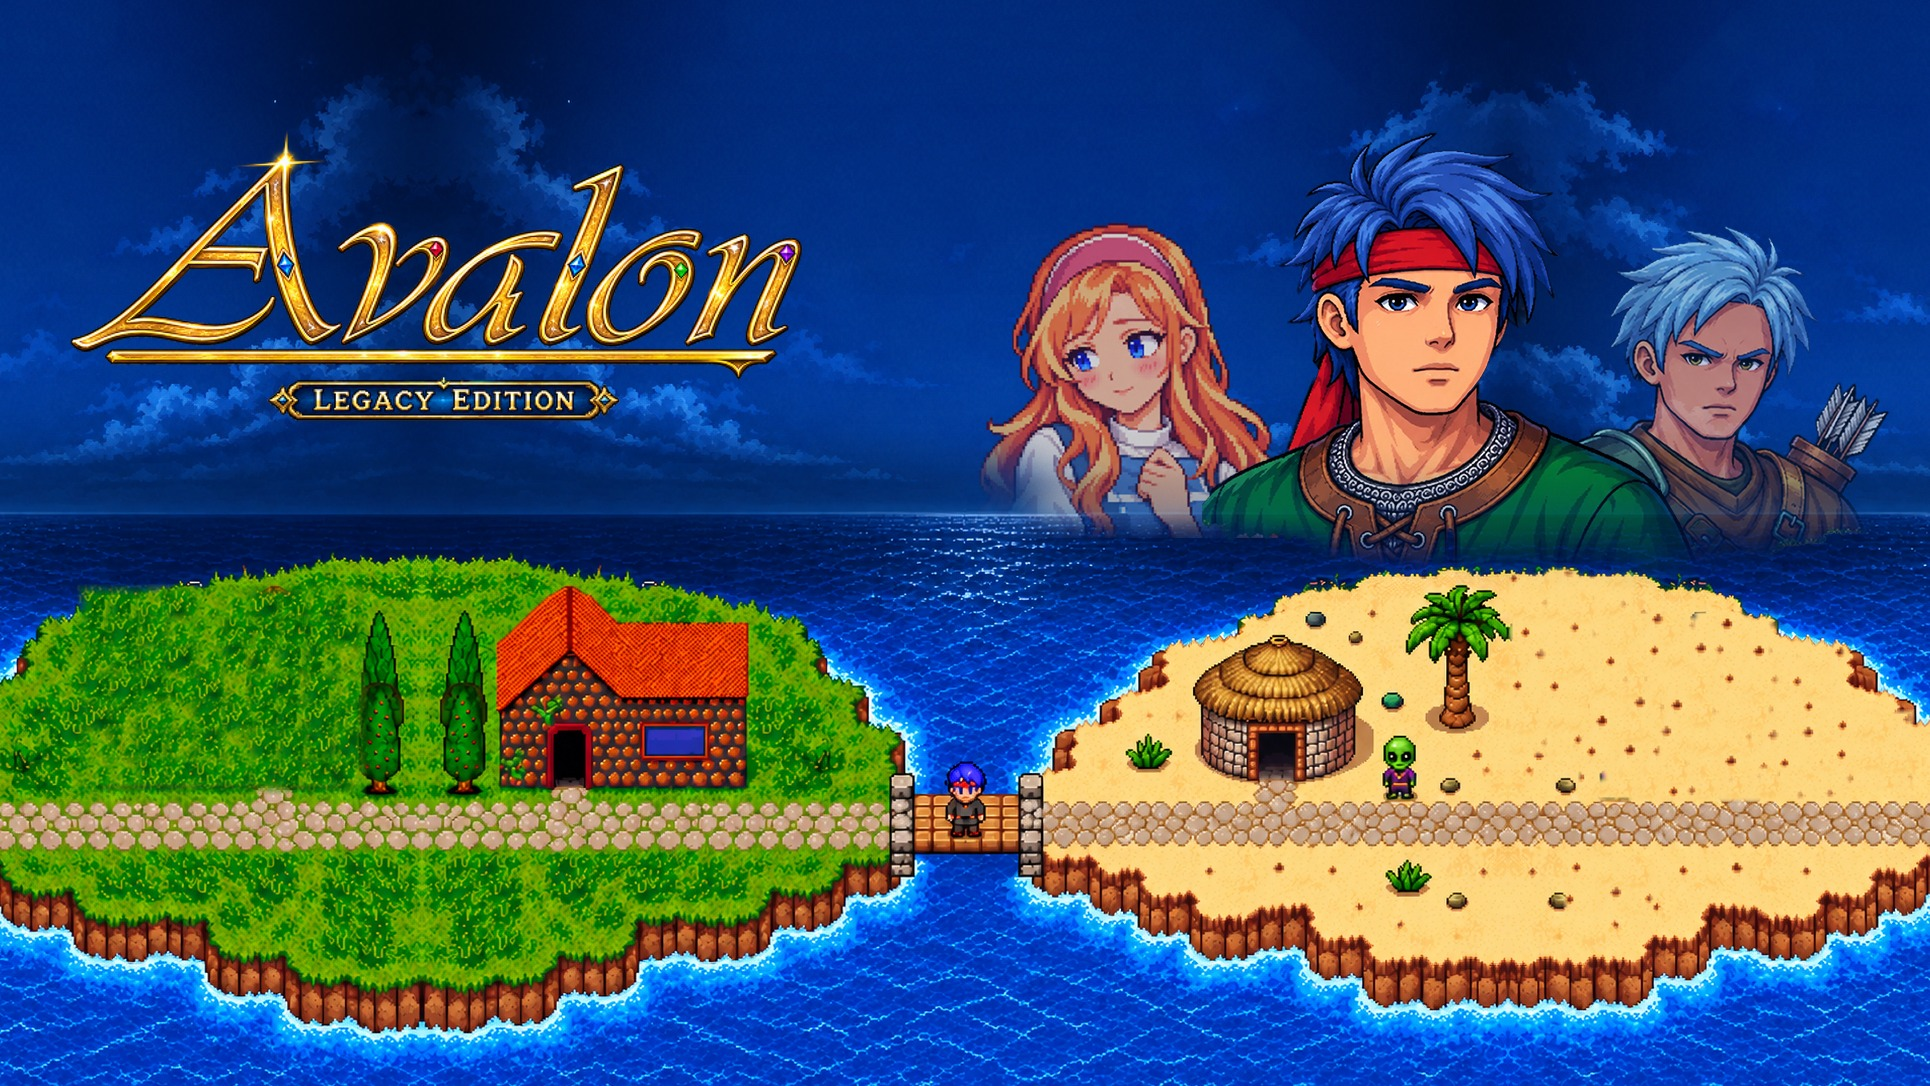
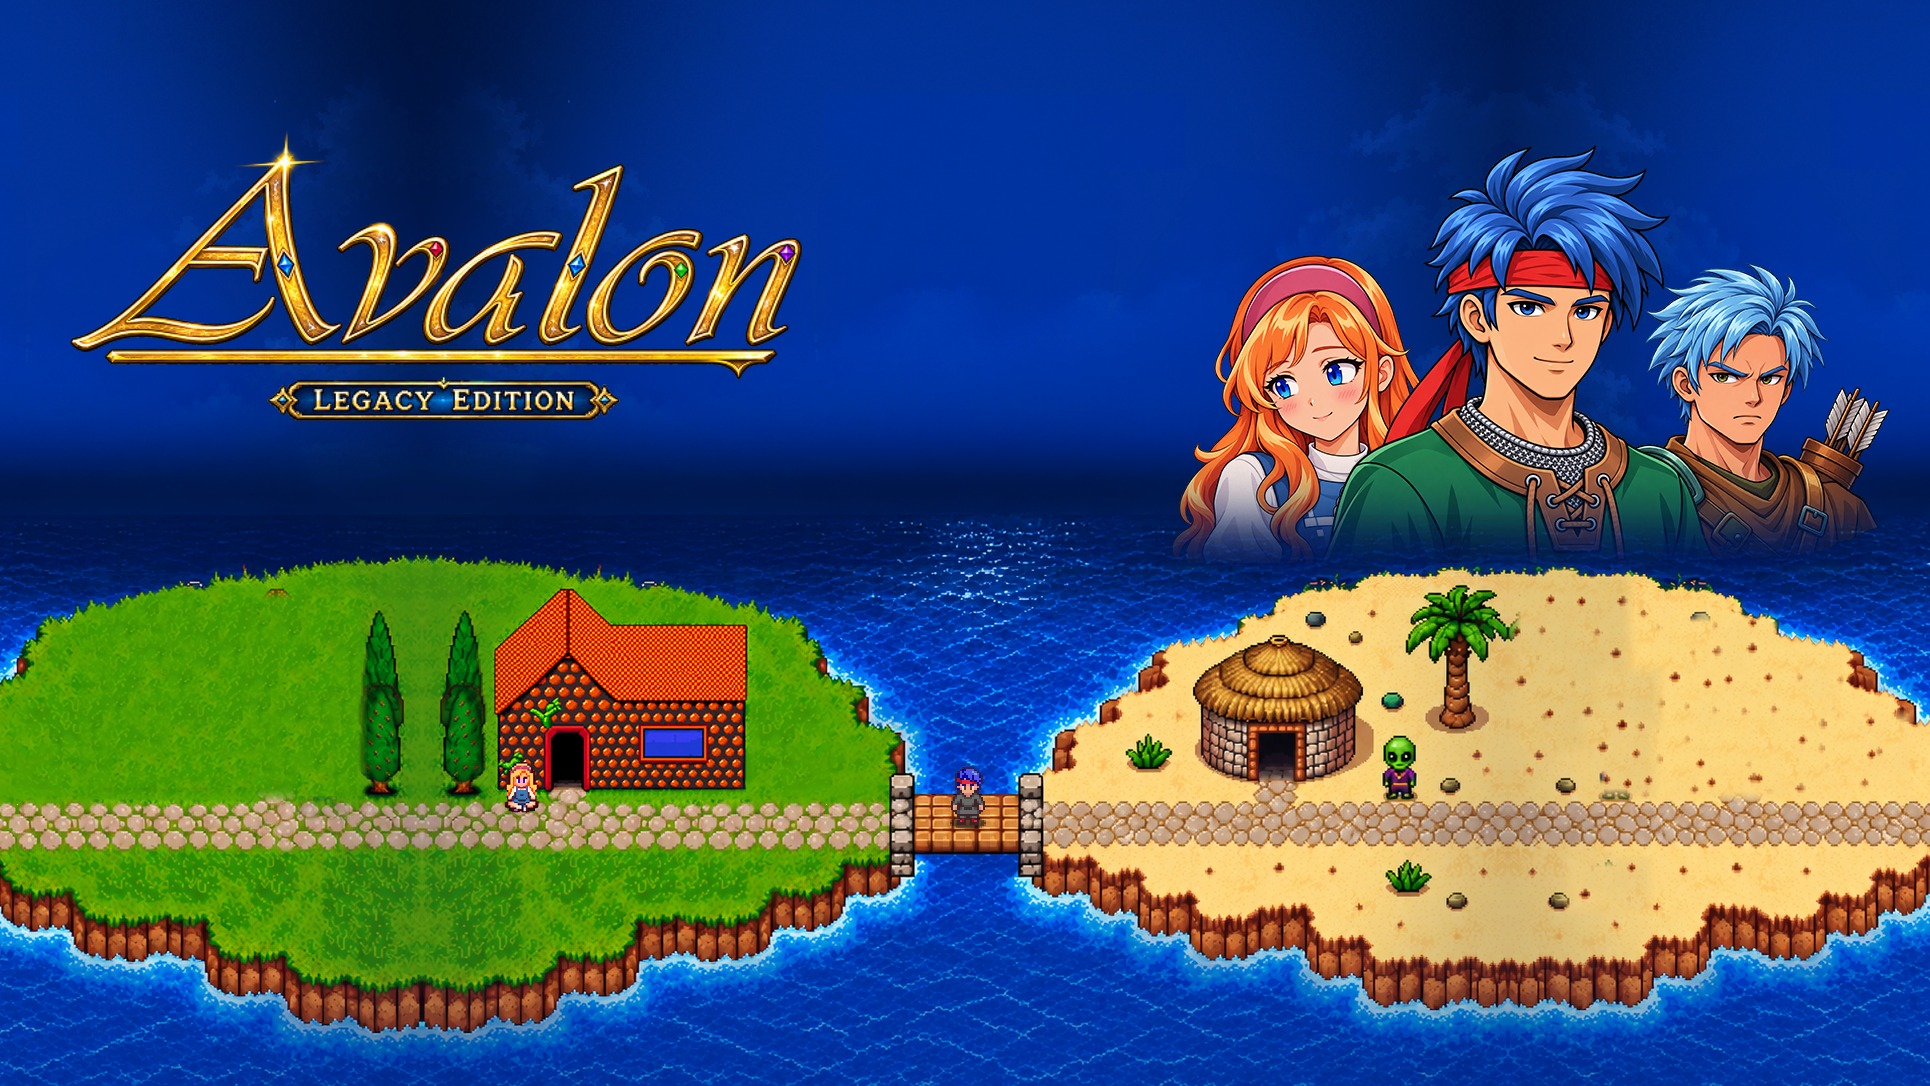
Key art: move the v4 box art into place and use it on the site
The new box art (v4) and its exported layers were committed loose in art/.
They now live in art/box-art/movie-poster-v4/ (box-art_v4.jpg, background,
characters, avalon, legacy-edition), and the site uses v4 instead of v2:

- make_landscape_keyart.py builds the 16:9 version from these PNG layers
  (no PSD or game repo needed any more); it also paints out the mirrored
  Fleur by the house, and colour-matches the sand patches.
- import_game_assets.py takes the poster and the transparent character
  layer for the press kit from this repo.
- Regenerated the poster and key art WebPs, the og-card and the press files.

Claude-Session: https://claude.ai/code/session_01LXwTDpJEjPTvNQL6RW2KxA

diff --git a/src/site.css b/src/site.css
@@ -510,7 +510,7 @@ p:last-child { margin-bottom: 0; }
 /* Home: hero                                                                                   */
 /* ------------------------------------------------------------------------------------------ */
 
-/* Landscape key art (built from the approved movie-poster v2 by make_landscape_keyart.py) on
+/* Landscape key art (built from the approved movie-poster v4 by make_landscape_keyart.py) on
    wide screens, the approved portrait poster itself on phones. */
 .hero { position: relative; }
 .hero-art {

diff --git a/scripts/make_landscape_keyart.py b/scripts/make_landscape_keyart.py
@@ -1,15 +1,15 @@
 #!/usr/bin/env python3
 """Build the landscape (16:9) key art from the approved portrait box art.
 
-The approved key art is the movie-poster box art, v2 (`art/box-art/movie-poster-v2/box-art.psd`
-in the game repository), and it only exists in portrait. This rebuilds a 1930×1086 landscape
-version out of that PSD's own layers, adding no new artwork:
+The approved key art is the movie-poster box art, v4 (`art/box-art/movie-poster-v4/` in this
+repository: `box-art_v4.jpg` plus its layers exported as PNG), and it only exists in portrait. This
+rebuilds a 1930×1086 landscape version out of those layers, adding no new artwork:
 
 - the scene layers (sky, sea, the village and alien-village islands, the bridge) are cropped to
   16:9 height and widened by mirroring their outer 422px, so sky, sea, cliffs and coast carry on
   seamlessly and both islands close into whole islands;
-- the objects that mirroring would duplicate (the house, the hut, the palm, the alien, a few
-  plants and stones) are painted out with quilted grass and sand taken from the same islands;
+- the objects that mirroring would duplicate (the house, Fleur, the hut, the palm, the alien, a
+  few plants and stones) are painted out with quilted grass and sand taken from the same islands;
 - the logo and the character group (Fleur, Mace, Caddman, with their fade into the sea) are
   placed side by side over the sky: logo left, characters right, at the height they have on the
   poster.
@@ -17,24 +17,17 @@ version out of that PSD's own layers, adding no new artwork:
 Writes `art/keyart-landscape.png`; `import_game_assets.py` makes the web sizes from it. The
 random tiling is seeded, so a re-run gives the same image.
 
-Needs `psd-tools[composite]` (pip install 'psd-tools[composite]'), numpy and Pillow.
+Needs numpy and Pillow.
 """
-import os
 from pathlib import Path
 
 import numpy as np
 from PIL import Image, ImageFilter
-from psd_tools import PSDImage
 
 SITE = Path(__file__).resolve().parent.parent
-GAME = Path(os.environ.get("AVALON_REMAKE", SITE.parent / "Avalon-Remake")).resolve()
-PSD = GAME / "art/box-art/movie-poster-v2/box-art.psd"
-APPROVED = GAME / "art/box-art/movie-poster-v2/box-art_v2.jpg"
+BOX_ART = SITE / "art/box-art/movie-poster-v4"
+APPROVED = BOX_ART / "box-art_v4.jpg"
 OUT = SITE / "art/keyart-landscape.png"
-
-SCENE_LAYERS = {"Background", "Layer 7", "Curves 1"}
-CHARACTER_LAYERS = {"Group 1", "Layer 5", "Layer 10", "Layer 4 copy 2"}   # group mask included
-LOGO_LAYERS = {"Layer 9", "Layer 8"}                                      # "Avalon" + plaque
 
 TOP, H = 300, 1086           # the poster rows kept (16:9 at the poster's own scale)
 E = 422                      # width added on each side
@@ -67,7 +60,7 @@ def quilt(sources, w, h, tile=40, overlap=12):
     return (out / np.maximum(wsum, 1e-6))[:h, :w]
 
 
-def paint_out(ext, box, sources, keep_sea=False, feather=FEATHER):
+def paint_out(ext, box, sources, keep_sea=False, feather=FEATHER, match=False):
     """Cover ext[box] with quilted texture, blended in over a soft edge. With keep_sea, pixels
     that are sea in the original are left alone, so a patch near the coast can't push sand out
     into the water."""
@@ -77,6 +70,17 @@ def paint_out(ext, box, sources, keep_sea=False, feather=FEATHER):
     d = np.minimum.reduce([yy + 1, xx + 1, (y1 - y0) - yy, (x1 - x0) - xx]).astype(float)
     m = np.clip(d / feather, 0, 1)[..., None]
     region = ext[y0:y1, x0:x1].astype(float)
+    # With match, the fill's median colour is set to that of the ring of pixels around the patch,
+    # so the patch has no visible edge where the shading differs from where the texture came from.
+    ring = np.ones((y1 - y0, x1 - x0), bool)
+    ring[feather:-feather, feather:-feather] = False
+    border = region[ring]
+    if keep_sea:
+        r, g, b = border[:, 0], border[:, 1], border[:, 2]
+        border = border[~((b > r + 30) & (b > g + 10) & (g >= r))]
+    if match and len(border):
+        fill[..., :3] += np.median(border[:, :3], 0) - np.median(fill[..., :3].reshape(-1, 3), 0)
+        fill = np.clip(fill, 0, 255)
     if keep_sea:
         r, g, b = region[..., 0], region[..., 1], region[..., 2]
         land = ~((b > r + 30) & (b > g + 10) & (g >= r))
@@ -86,16 +90,31 @@ def paint_out(ext, box, sources, keep_sea=False, feather=FEATHER):
     ext[y0:y1, x0:x1] = (fill * m + region * (1 - m)).round().astype(np.uint8)
 
 
+def patch_from(ext, box, dx, feather=6):
+    """Cover ext[box] with the pixels dx to the side, blended in over a soft edge. For spots on
+    the cobbled path, where quilting would break up the stones."""
+    x0, y0, x1, y1 = box
+    yy, xx = np.mgrid[0:y1 - y0, 0:x1 - x0]
+    d = np.minimum.reduce([yy + 1, xx + 1, (y1 - y0) - yy, (x1 - x0) - xx]).astype(float)
+    m = np.clip(d / feather, 0, 1)[..., None]
+    region = ext[y0:y1, x0:x1].astype(float)
+    fill = ext[y0:y1, x0 + dx:x1 + dx].astype(float)
+    ext[y0:y1, x0:x1] = (fill * m + region * (1 - m)).round().astype(np.uint8)
+
+
 def crop(arr, box):
     x0, y0, x1, y1 = box
     return arr[y0:y1, x0:x1].astype(float)
 
 
 def main():
-    psd = PSDImage.open(PSD)
-    scene = psd.composite(layer_filter=lambda l: l.name in SCENE_LAYERS and l.visible)
-    chars = psd.composite(layer_filter=lambda l: l.name in CHARACTER_LAYERS and l.visible)
-    logo = psd.composite(layer_filter=lambda l: l.name in LOGO_LAYERS)
+    def layer(name):
+        return Image.open(BOX_ART / f"{name}.png").convert("RGBA")
+
+    scene = layer("background")
+    chars = layer("characters")
+    logo = layer("avalon")
+    logo.alpha_composite(layer("legacy-edition"))
 
     # Guard: scene + characters + logo must still add up to the approved poster.
     rebuilt = scene.convert("RGBA")
@@ -104,16 +123,22 @@ def main():
     diff = np.abs(np.asarray(rebuilt.convert("RGB"), int)
                   - np.asarray(Image.open(APPROVED).convert("RGB"), int)).mean()
     if diff > 3:
-        raise SystemExit(f"PSD layers no longer rebuild the approved poster (mean diff {diff:.1f})"
-                         " — the layer names above need updating.")
+        raise SystemExit(f"The layers no longer rebuild the approved poster (mean diff {diff:.1f}).")
 
     a = np.asarray(scene.convert("RGBA").crop((0, TOP, 1086, TOP + H))).copy()
     left = a[:, :E][:, ::-1].copy()      # canvas x 0..E       ↔ poster x E-1..0
     right = a[:, -E:][:, ::-1].copy()    # canvas x E+1086..W  ↔ poster x 1085..1086-E
 
-    # Left: the mirrored house → grass (from below the path, and beside the house).
-    grass = [crop(a, (5, y(1152), 200, y(1225))), crop(a, (335, y(960), 390, y(1085)))]
-    paint_out(left, (E - 345, y(884), E - 55, y(1095)), grass)
+    # Left: the mirrored house → grass (from beside the house, the same smooth meadow).
+    grass = [crop(a, (335, y(960), 390, y(1085)))]
+    # Two passes: the first leaves the sea at the top-left corner alone, the second covers the
+    # window and dark walls that the first one takes for sea.
+    paint_out(left, (E - 345, y(884), E - 55, y(1102)), grass, keep_sea=True, feather=16)
+    paint_out(left, (E - 345, y(935), E - 55, y(1102)), grass, feather=16)
+    # The mirrored Fleur, sitting on the edge of the path: grass above it, and the path beside her
+    # below (the tree trunk is in the source above row 1094).
+    paint_out(left, (E - 126, y(1070), E - 72, y(1100)), grass, feather=4)
+    patch_from(left, (E - 126, y(1096), E - 72, y(1120)), 60)
 
     # Right: the mirrored hut and its stepping stones, palm, a green stone, the alien and two
     # plants → sand. Boxes are in poster coordinates; ext index = 1085 - poster x.
@@ -132,7 +157,7 @@ def main():
             continue
         ox0 = max(ox0, 1086 - E)
         paint_out(right, (1085 - (ox1 - 1), y(oy0), 1085 - ox0 + 1, y(oy1)), sand,
-                  keep_sea=True, feather=6)
+                  keep_sea=True, feather=14, match=True)
 
     out = Image.fromarray(np.concatenate([left, a, right], axis=1))
 

diff --git a/scripts/import_game_assets.py b/scripts/import_game_assets.py
@@ -80,11 +80,12 @@ MACE_EMOTIONS = ["mace_talk01", "mace_smile", "mace_proud", "mace_thinking", "ma
 ITEM_ICONS = ["relic_disc", "swiss_watch", "map", "translator", "golden_key",
               "pick_axe", "torch", "necklace", "first_aid_kit", "master_key"]
 
-# The approved key art: the "movie poster" box art, v2. It only exists in portrait, and is shown
-# as-is — never cropped; wide spaces use the landscape adaptation below.
-POSTER = ART / "box-art/movie-poster-v2/box-art_v2.jpg"
-# Its landscape adaptation, built from the same PSD's layers by make_landscape_keyart.py (kept in
-# this repo, since it is the site's derivative, not a game asset).
+# The approved key art: the "movie poster" box art, v4, kept in this repo with its layers
+# (art/box-art/movie-poster-v4). It only exists in portrait, and is shown as-is — never cropped;
+# wide spaces use the landscape adaptation below.
+BOX_ART = SITE / "art/box-art/movie-poster-v4"
+POSTER = BOX_ART / "box-art_v4.jpg"
+# Its landscape adaptation, built from the same layers by make_landscape_keyart.py.
 LANDSCAPE = SITE / "art/keyart-landscape.png"
 
 # Painted art: (source, output stem, widths). The first width is the default src.
@@ -247,7 +248,7 @@ def import_painted():
     shutil.copyfile(POSTER, dest("press/avalon-legacy-edition-key-art.jpg"))
     Image.open(LANDSCAPE).convert("RGB").save(dest("press/avalon-legacy-edition-key-art-landscape.jpg"),
                                               quality=92, optimize=True)
-    shutil.copyfile(POSTER.parent / "box-art-characters-trans.png", dest("press/avalon-characters-transparent.png"))
+    shutil.copyfile(BOX_ART / "characters.png", dest("press/avalon-characters-transparent.png"))
 
 
 def import_portraits():

diff --git a/README.md b/README.md
@@ -36,18 +36,18 @@ presents dialogue.
 
 - **`public/game/`**: generated, don't edit by hand. `scripts/import_game_assets.py` copies it
   from a sibling checkout of the game (`../Avalon-Remake`, or set `AVALON_REMAKE`): UI slices,
-  fonts, the approved key art (the portrait box art in `art/box-art/movie-poster-v2`, always shown
-  whole, never cropped), the curated screenshots (with captions, spoiler-free) plus battle stills pulled
+  fonts, the approved key art (the portrait box art in this repo's `art/box-art/movie-poster-v4`,
+  always shown whole, never cropped), the curated screenshots (with captions, spoiler-free) plus battle stills pulled
   from the gameplay recordings, character portraits, item icons, the gameplay montage and the
   "chase" loop. It re-encodes to WebP/MP4/WebM at the sizes the site shows them. Needs Pillow,
   `cwebp` and `ffmpeg`.
 - **`art/keyart-landscape.png`**: the landscape (16:9) version of the approved box art, which
-  only exists in portrait. `scripts/make_landscape_keyart.py` builds it from the PSD's own layers
-  (`art/box-art/movie-poster-v2/box-art.psd` in the game repo): the scene is widened by mirroring
+  only exists in portrait. `scripts/make_landscape_keyart.py` builds it from the poster's own layers
+  (the PNGs next to `box-art_v4.jpg` in `art/box-art/movie-poster-v4/`): the scene is widened by mirroring
   its edges, the objects that would appear twice are painted out with grass and sand from the same
   islands, and the logo and characters are placed side by side. It adds no new artwork, checks
   that the layers still rebuild the approved poster, and is seeded, so re-runs give the same image.
-  Needs `pip install 'psd-tools[composite]'`. Re-run it (then `import-assets`) if the poster changes.
+  Needs numpy and Pillow. Re-run it (then `import-assets`) if the poster changes.
   The site shows this on wide screens and the approved portrait itself on phones.
 - **`public/classic/`**: the old site's media, mirrored from avalonrpg.net and
   static.avalonrpg.net: the 1998 screenshots, the full MP3 soundtrack and remixes, the DOS
